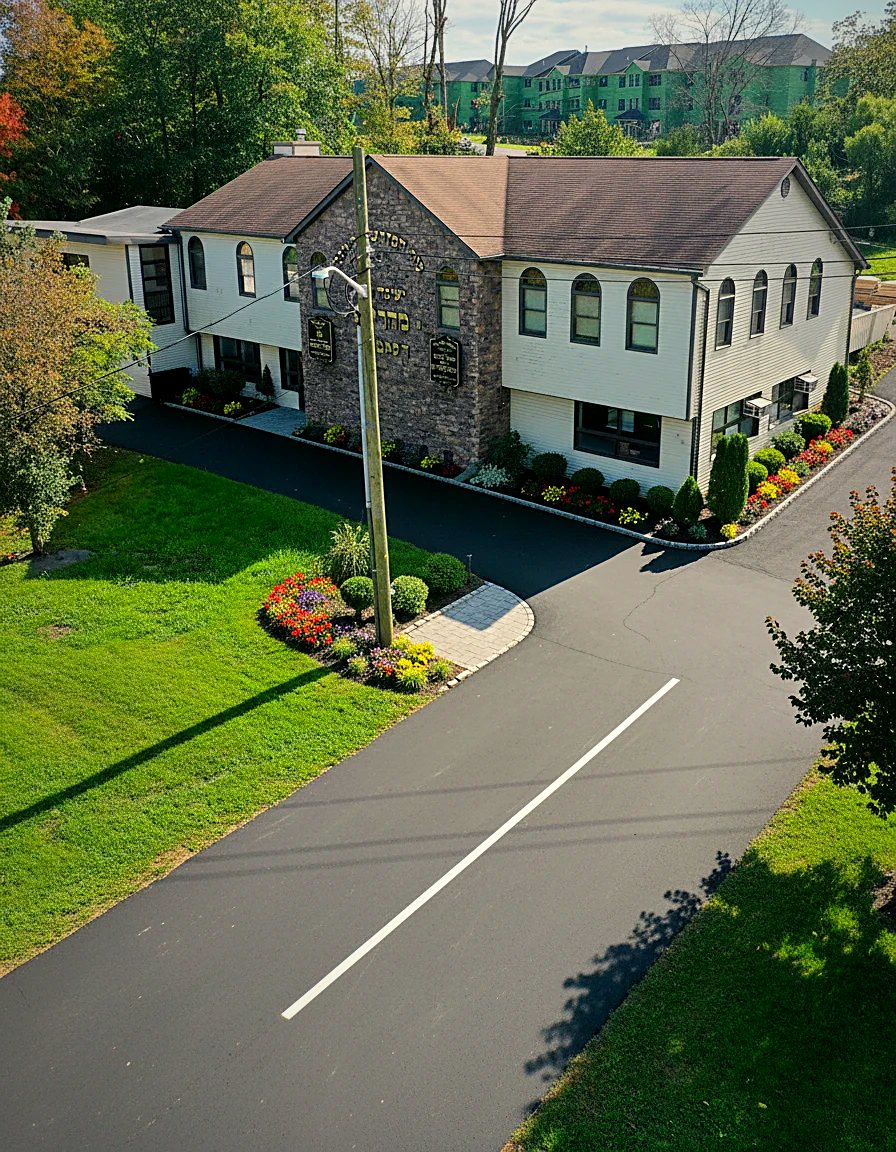
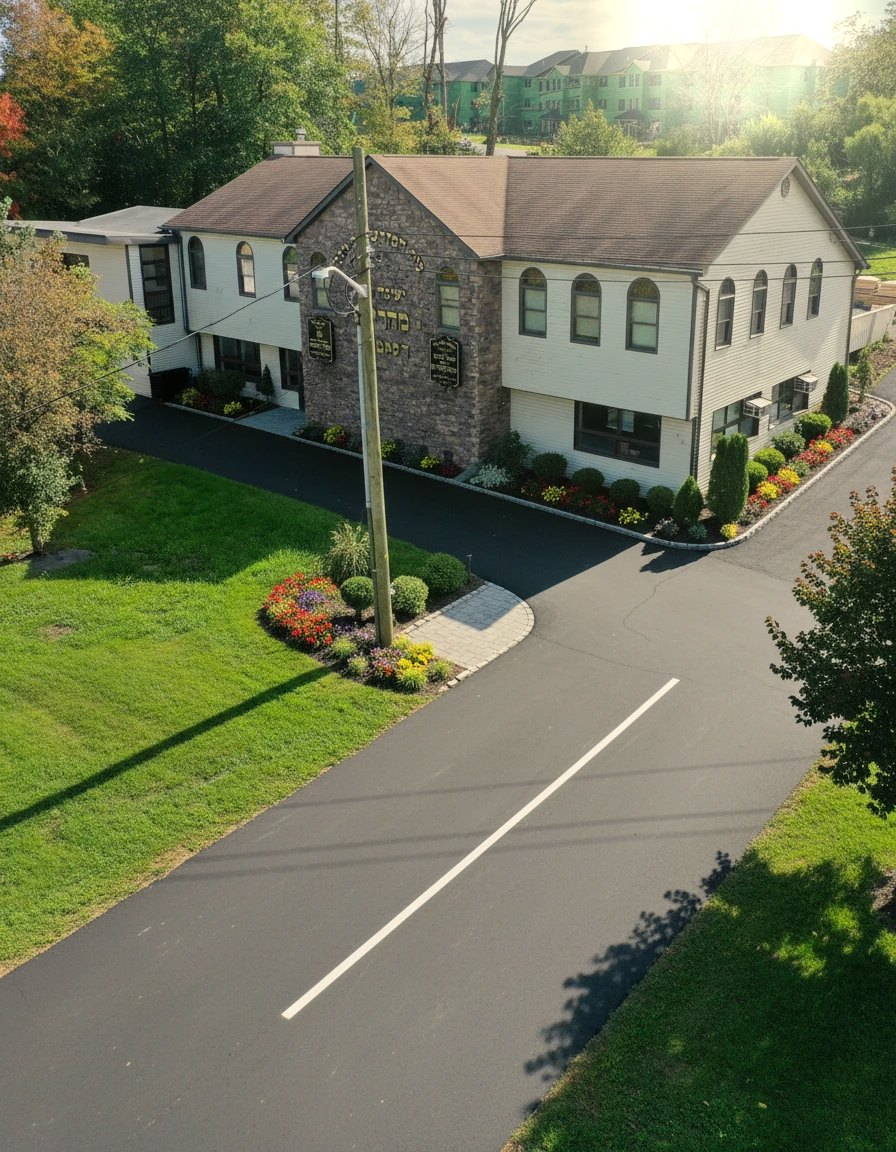
Login background: landscaped building photo with a warm sun, lighter overlay
Claude-Session: https://claude.ai/code/session_01Mxz616D72KW27MwALdSSpo

diff --git a/style.css b/style.css
@@ -183,10 +183,10 @@ a.callb:hover{background:#d3eedd;border-color:var(--green)}
 .tagc{display:inline-block;font-size:11.5px;font-weight:600;border:1px solid;border-radius:12px;padding:1px 8px;vertical-align:middle;white-space:nowrap}
 
 /* ---- login screen: the yeshiva building in the background ---- */
-body.locked{background:#14284b url(building.jpg) center 45%/cover no-repeat fixed}
-body.locked::before{content:'';position:fixed;inset:0;background:linear-gradient(180deg,rgba(20,40,75,.30) 0%,rgba(20,40,75,.45) 45%,rgba(12,24,48,.82) 100%);z-index:0;pointer-events:none}
+body.locked{background:#14284b url(building.jpg?v=2) center 35%/cover no-repeat fixed}
+body.locked::before{content:'';position:fixed;inset:0;background:linear-gradient(180deg,rgba(20,40,75,.05) 0%,rgba(20,40,75,.18) 45%,rgba(12,24,48,.62) 100%);z-index:0;pointer-events:none}
 body.locked main{position:relative;z-index:1}
-@media (max-width:800px),(orientation:portrait){body.locked{background-image:url(building-m.jpg);background-position:center 30%}}
+@media (max-width:800px),(orientation:portrait){body.locked{background-image:url(building-m.jpg?v=2);background-position:center 30%}}
 .welcome.loginbg{margin-top:20px}
 .welcome.loginbg .logo3d.big{height:150px}
 @media (max-width:800px){.welcome.loginbg .logo3d.big{height:110px}.ltitle{font-size:17px}}

diff --git a/index.html b/index.html
@@ -10,7 +10,7 @@
 <body class="locked">
 <header>
   <div class="logo3d sm" title='ישיבת מהרי"ט ד&#39;סאטמאר'><div class="in"><img src="logo.png" alt='ישיבת מהרי"ט ד&#39;סאטמאר'><i class="shine"></i></div></div>
-  <div class="logo">YG Fund<small>פאנדרעיזינג סיסטעם · v1.10</small></div>
+  <div class="logo">YG Fund<small>פאנדרעיזינג סיסטעם · v1.10.1</small></div>
   <div class="spacer"></div>
   <div class="imp" id="impInfo"></div>
   <button class="btn gold" id="btnImport">⟳ דערהיינטיג פון JLS</button>

diff --git a/CLAUDE.md b/CLAUDE.md
@@ -57,7 +57,7 @@ Backend is **Supabase** (project `qrudivrakwoathgbzrwd`).
 - `style.css`, `logo.png` (the yeshiva's logo; never alter it), `icon.png`.
 
 ## UX rules the user asked for
-- Login screen: the yeshiva building as background (`building.jpg` landscape, `building-m.jpg` portrait/phone – both color-enhanced from the owner's photos), dark gradient overlay, translucent login box.
+- Login screen: the yeshiva building as background (`building.jpg` wide and `building-m.jpg` phone, both made from the owner's landscaped photo – flowers, no big trees in front – with a warm sun glow added; no generative editing is available here), dark gradient overlay, translucent login box.
 - Automatic log out after **10 minutes** without mouse/keyboard/touch (`IDLE_MS`, last activity in localStorage `yg_act`, shared by all tabs; a warning toast 1 minute before; skipped while the busy overlay is on). Also checked on page load, so a closed browser does not stay logged in.
 - Hebrew name first and bold. The English name comes after it, smaller and lighter.
 - Phones: cell first, then home.
